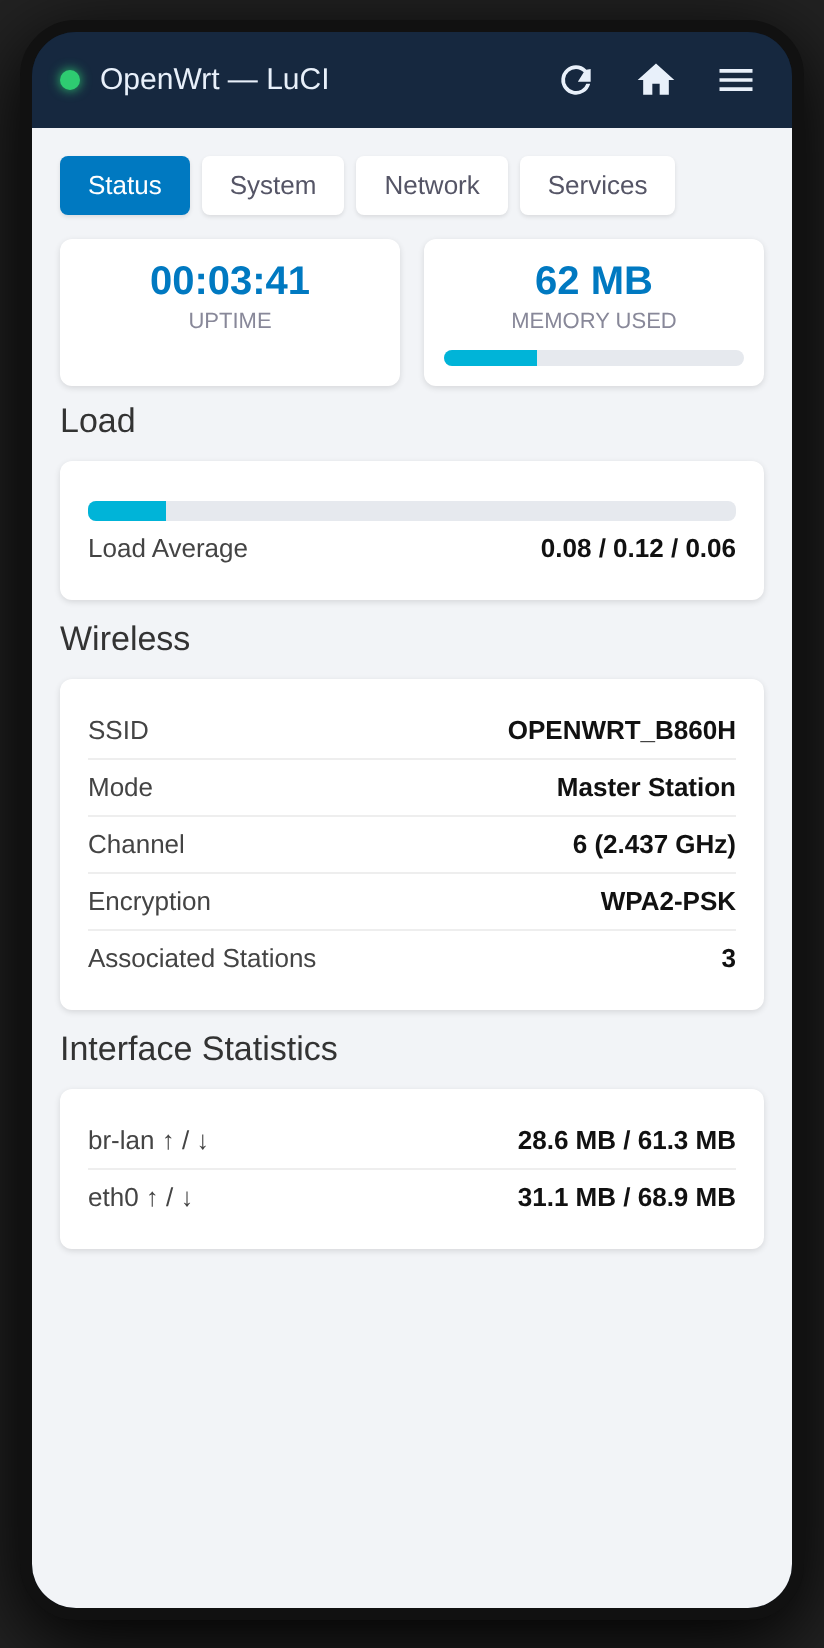
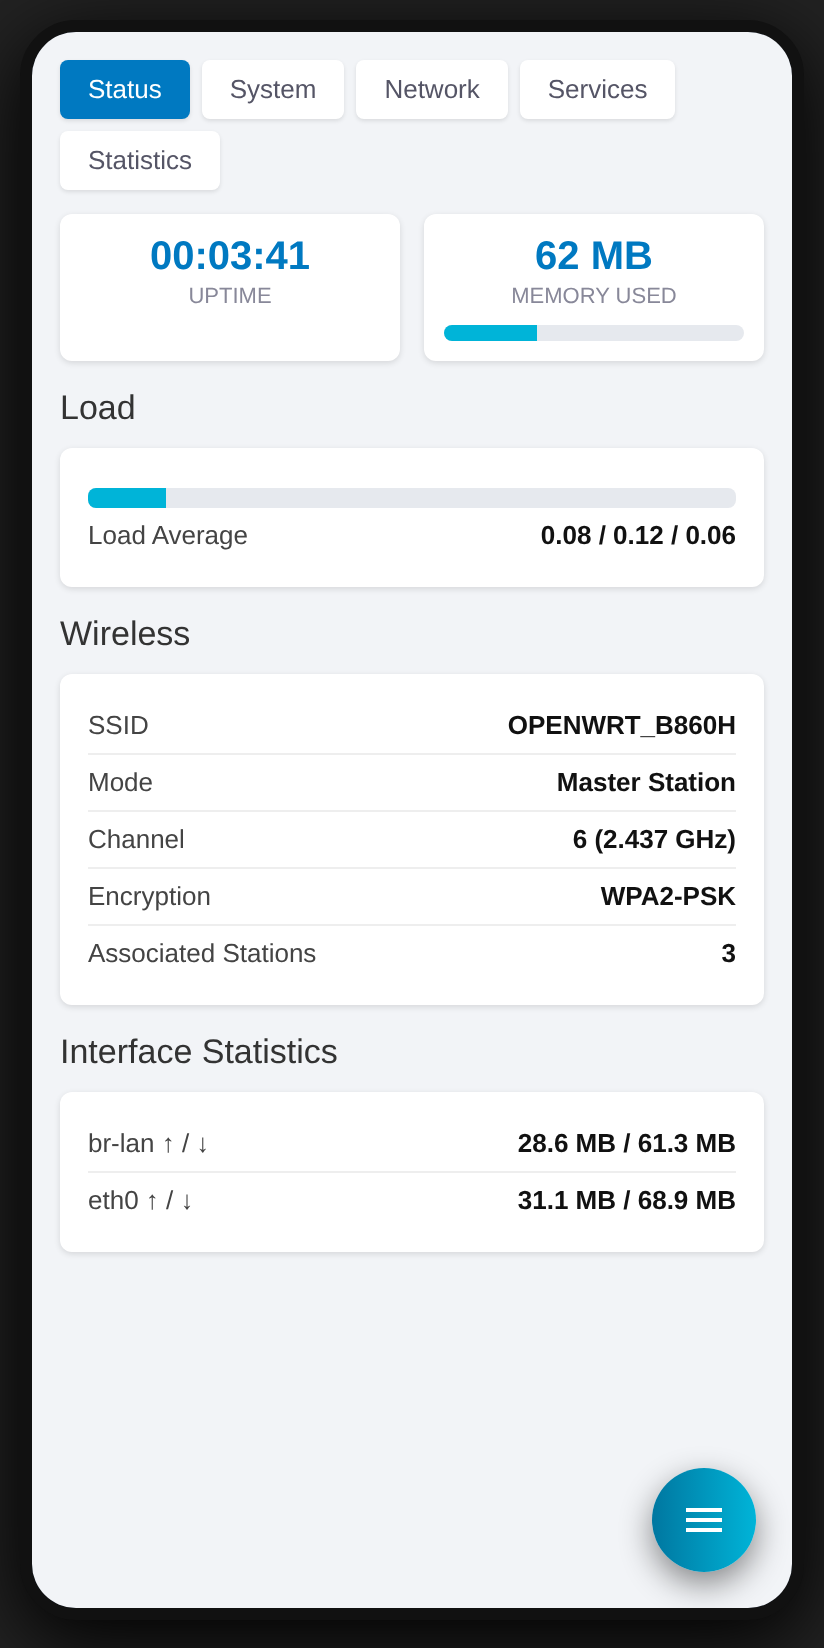
v1.1: fullscreen tanpa bar, splash login native + auto-login LuCI, FAB menu

diff --git a/android/app/src/main/java/com/openwrt/luci/MainActivity.java b/android/app/src/main/java/com/openwrt/luci/MainActivity.java
@@ -5,10 +5,11 @@ import android.app.Activity;
 import android.app.AlertDialog;
 import android.content.Context;
 import android.content.SharedPreferences;
-import android.graphics.Color;
 import android.net.http.SslError;
 import android.os.Bundle;
 import android.view.View;
+import android.view.Window;
+import android.view.WindowManager;
 import android.view.inputmethod.InputMethodManager;
 import android.webkit.CookieManager;
 import android.webkit.SslErrorHandler;
@@ -17,37 +18,50 @@ import android.webkit.WebResourceRequest;
 import android.webkit.WebSettings;
 import android.webkit.WebView;
 import android.webkit.WebViewClient;
-import android.webkit.WebChromeClient;
-import android.widget.ProgressBar;
 import android.widget.EditText;
 import android.widget.TextView;
 import android.widget.Toast;
+import org.json.JSONObject;
 
 public class MainActivity extends Activity {
 
     private static final String PREFS = "owrt_prefs";
     private static final String KEY_HOST = "router_host";
+    private static final String KEY_USER = "router_user";
+    private static final String KEY_PASS = "router_pass";
     private static final String DEFAULT_HOST = "http://192.168.1.1";
 
     private WebView webView;
-    private View statusDot;
-    private TextView titleText;
-    private ProgressBar progressBar;
+    private View splash;
+    private EditText etUser, etPass;
+    private TextView splashHost;
+    private SharedPreferences sp;
     private String routerHost;
+    private boolean autoLoginPending = false;
 
     @SuppressLint("SetJavaScriptEnabled")
     @Override
     protected void onCreate(Bundle savedInstanceState) {
         super.onCreate(savedInstanceState);
+
+        // Fullscreen: tanpa status bar & title bar -> tidak terasa seperti browser
+        requestWindowFeature(Window.FEATURE_NO_TITLE);
+        getWindow().setFlags(WindowManager.LayoutParams.FLAG_FULLSCREEN,
+                WindowManager.LayoutParams.FLAG_FULLSCREEN);
+
         setContentView(R.layout.activity_main);
 
         webView = findViewById(R.id.webview);
-        statusDot = findViewById(R.id.status_dot);
-        titleText = findViewById(R.id.title_text);
-        progressBar = findViewById(R.id.progress);
+        splash = findViewById(R.id.splash);
+        etUser = findViewById(R.id.et_user);
+        etPass = findViewById(R.id.et_pass);
+        splashHost = findViewById(R.id.splash_host);
 
-        SharedPreferences sp = getSharedPreferences(PREFS, Context.MODE_PRIVATE);
+        sp = getSharedPreferences(PREFS, Context.MODE_PRIVATE);
         routerHost = sp.getString(KEY_HOST, DEFAULT_HOST);
+        etUser.setText(sp.getString(KEY_USER, "root"));
+        etPass.setText(sp.getString(KEY_PASS, ""));
+        splashHost.setText(routerHost.replaceFirst("^https?://", ""));
 
         WebSettings s = webView.getSettings();
         s.setJavaScriptEnabled(true);
@@ -59,61 +73,96 @@ public class MainActivity extends Activity {
         s.setBuiltInZoomControls(true);
         s.setDisplayZoomControls(false);
         s.setCacheMode(WebSettings.LOAD_DEFAULT);
+        webView.setBackgroundColor(0xFF0A1622); // tidak ada kedip putih ala browser
 
-        CookieManager cm = CookieManager.getInstance();
-        cm.setAcceptCookie(true);
+        CookieManager.getInstance().setAcceptCookie(true);
 
         webView.setWebViewClient(new WebViewClient() {
             @Override
             public void onPageFinished(WebView view, String url) {
-                setStatus(true);
-                String t = view.getTitle();
-                titleText.setText((t == null || t.isEmpty()) ? getString(R.string.app_name) : t);
+                if (autoLoginPending) {
+                    autoLoginPending = false;
+                    injectLogin();
+                }
+                splash.setVisibility(View.GONE);
             }
 
             @Override
             public void onReceivedError(WebView view, WebResourceRequest request, WebResourceError error) {
-                if (request.isForMainFrame()) setStatus(false);
+                if (request.isForMainFrame()) {
+                    splash.setVisibility(View.VISIBLE);
+                    Toast.makeText(MainActivity.this,
+                            "Router tidak terjangkau — cek HP tersambung ke Wi-Fi router",
+                            Toast.LENGTH_LONG).show();
+                }
             }
 
             @Override
             public void onReceivedSslError(WebView view, SslErrorHandler handler, SslError error) {
-                // Router pakai sertifikat self-signed: terima agar LuCI tetap bisa dibuka.
-                handler.proceed();
+                handler.proceed(); // sertifikat self-signed router
             }
         });
 
-        webView.setWebChromeClient(new WebChromeClient() {
-            @Override
-            public void onProgressChanged(WebView view, int newProgress) {
-                progressBar.setVisibility(newProgress < 100 ? View.VISIBLE : View.GONE);
-                progressBar.setProgress(newProgress);
-            }
+        findViewById(R.id.fab).setOnClickListener(v -> showMenu());
+
+        findViewById(R.id.btn_login).setOnClickListener(v -> {
+            sp.edit()
+                    .putString(KEY_USER, etUser.getText().toString().trim())
+                    .putString(KEY_PASS, etPass.getText().toString())
+                    .apply();
+            autoLoginPending = true;
+            loadUrl(routerHost + "/");
         });
 
-        findViewById(R.id.btn_reload).setOnClickListener(v -> webView.reload());
-        findViewById(R.id.btn_home).setOnClickListener(v -> loadUrl(routerHost + "/"));
-        findViewById(R.id.btn_menu).setOnClickListener(v -> showMenu());
+        findViewById(R.id.btn_skip).setOnClickListener(v -> {
+            autoLoginPending = false;
+            loadUrl(routerHost + "/");
+        });
 
+        // Startup: langsung ke halaman LuCI; splash menutup sendiri saat halaman tampil
         loadUrl(routerHost + "/");
+    }
+
+    /** Isi & kirim form login LuCI dari kredensial yang tersimpan.
+     *  Mendukung LuCI lama (input name="luci_password") dan baru (user + password). */
+    private void injectLogin() {
+        final String user = sp.getString(KEY_USER, "root");
+        final String pass = sp.getString(KEY_PASS, "");
+        if (pass.isEmpty()) return;
+        try {
+            String js = "(function(){"
+                    + "var p=document.querySelector('input[name=\"luci_password\"]');"
+                    + "if(p){p.value=" + JSONObject.quote(pass) + ";if(p.form)p.form.submit();return;}"
+                    + "var pw=document.querySelector('input[type=\"password\"]');"
+                    + "if(pw){"
+                    + "  var u=document.querySelector('input[type=\"text\"],input[name=\"user\"]');"
+                    + "  if(u)u.value=" + JSONObject.quote(user) + ";"
+                    + "  pw.value=" + JSONObject.quote(pass) + ";"
+                    + "  var b=document.querySelector('button,input[type=\"submit\"]');"
+                    + "  if(b){b.click();return;}"
+                    + "  if(pw.form)pw.form.submit();"
+                    + "}})();";
+            webView.evaluateJavascript(js, null);
+        } catch (Exception ignored) {
+        }
     }
 
     private void loadUrl(String url) {
         webView.loadUrl(url);
     }
 
-    private void setStatus(boolean ok) {
-        statusDot.setBackgroundResource(ok ? R.drawable.dot_online : R.drawable.dot_offline);
-    }
-
     private void showMenu() {
-        String[] items = {"Ganti Alamat Router", "Logout / Bersihkan Sesi", "Muat Ulang Paksa"};
+        String[] items = {"Muat Ulang", "Beranda", "Tampilkan Halaman Login", "Ganti Alamat Router", "Logout / Bersihkan Sesi"};
         new AlertDialog.Builder(this)
                 .setTitle(R.string.app_name)
                 .setItems(items, (dialog, which) -> {
-                    if (which == 0) showHostDialog();
-                    else if (which == 1) clearSession();
-                    else webView.reload();
+                    switch (which) {
+                        case 0: webView.reload(); break;
+                        case 1: loadUrl(routerHost + "/"); break;
+                        case 2: loadUrl(routerHost + "/cgi-bin/luci"); break;
+                        case 3: showHostDialog(); break;
+                        case 4: clearSession(); break;
+                    }
                 })
                 .show();
     }
@@ -135,8 +184,8 @@ public class MainActivity extends Activity {
                         host = "http://" + host;
                     }
                     routerHost = host.endsWith("/") ? host.substring(0, host.length() - 1) : host;
-                    getSharedPreferences(PREFS, Context.MODE_PRIVATE)
-                            .edit().putString(KEY_HOST, routerHost).apply();
+                    sp.edit().putString(KEY_HOST, routerHost).apply();
+                    splashHost.setText(routerHost.replaceFirst("^https?://", ""));
                     loadUrl(routerHost + "/");
                 })
                 .setNegativeButton("Batal", null)

diff --git a/README.md b/README.md
@@ -6,22 +6,22 @@ Tampilannya aplikasi murni (bukan tab browser): header gelap custom, indikator k
 
 ## ✨ Fitur
 
-- 🟢 **Indikator status** — titik hijau (router terhubung) / merah (terputus) di header
+- 🌌 **Layar pembuka login native** — kartu login gelap custom milik aplikasi, bukan halaman web polos; kredensial disimpan di HP dan form login LuCI diisi & dikirim otomatis
+- 📱 **Fullscreen tanpa bar** — tidak ada status bar/browser bar; satu-satunya kontrol adalah tombol mengambang cyan (☰) di pojok
 - 🧭 **Semua menu LuCI utuh** — WebView penuh dengan JavaScript, cookies, zoom, dan tombol back HP = kembali halaman
 - 🔐 **Sesi login tersimpan** — tidak perlu ketik password root tiap buka aplikasi
-- 🔄 **Tombol cepat** — Muat Ulang, Beranda, Menu
+- 🔄 **Menu cepat (FAB)** — Muat Ulang, Beranda, Halaman Login, Ganti Alamat Router, Logout
 - 🌐 **Ganti alamat router dari dalam aplikasi** — tidak terpaku di `192.168.1.1`
 - 🧹 **Logout / bersihkan sesi** kapan saja
-- 📊 Progress bar saat halaman memuat
-- Tema gelap navy-cyan yang konsisten
+- Tema gelap navy-cyan + aksen gradasi
 
 ## 📸 Pratinjau Tampilan
 
 > Catatan: gambar di bawah adalah **mockup desain 1:1** (render layout & warna persis seperti aplikasi jadi), bukan tangkapan layar dari emulator.
 
-| Dashboard Status | Halaman Login Router | Menu Ganti IP |
-|---|---|---|
-| ![Dashboard](docs/screenshots/01-dashboard-status.png) | ![Login](docs/screenshots/02-login-router.png) | ![Ganti IP](docs/screenshots/03-menu-ganti-ip.png) |
+| Login Native (splash) | Dashboard — tanpa bar, FAB menu |
+|---|---|
+| ![Login](docs/screenshots/02-login-native.png) | ![Dashboard](docs/screenshots/01-dashboard-status.png) |
 
 ## 📥 Cara Install
 
